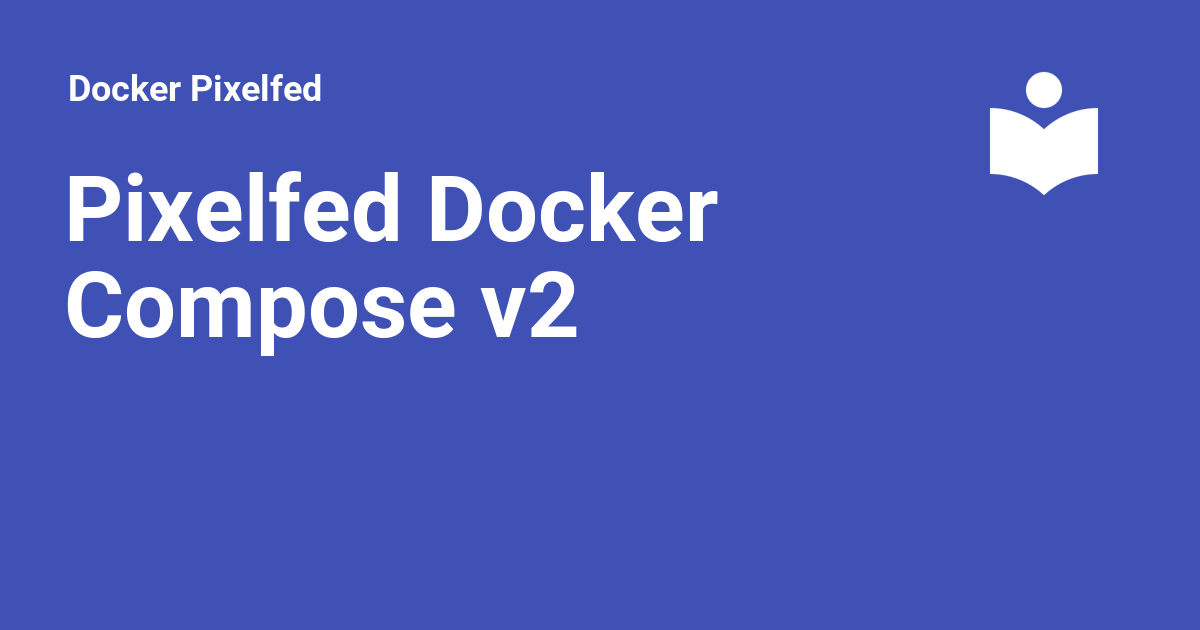
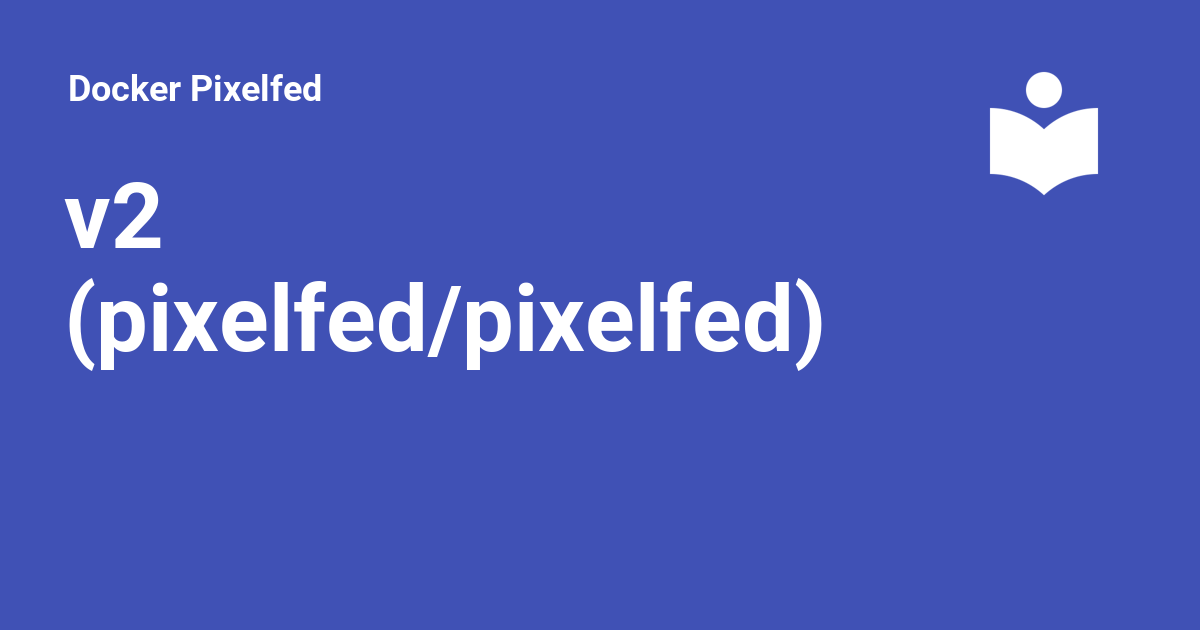
Deployed ea24fba with MkDocs version: 1.6.0

Changed region(s): [[0.0308, 0.4222, 0.7092, 0.6032], [0.0308, 0.2714, 0.6167, 0.3921]]

diff --git a/migrate/v2.0/index.html b/migrate/v2.0/index.html
@@ -22,7 +22,7 @@
     
     
       
-        <title>Pixelfed Docker Compose v2 - Docker Pixelfed</title>
+        <title>v2 (pixelfed/pixelfed) - Docker Pixelfed</title>
       
     
     
@@ -59,7 +59,7 @@
       
         <meta  property="og:type"  content="website" >
       
-        <meta  property="og:title"  content="Pixelfed Docker Compose v2 - Docker Pixelfed" >
+        <meta  property="og:title"  content="v2 (pixelfed/pixelfed) - Docker Pixelfed" >
       
         <meta  property="og:description"  content="None" >
       
@@ -75,7 +75,7 @@
       
         <meta  name="twitter:card"  content="summary_large_image" >
       
-        <meta  name="twitter:title"  content="Pixelfed Docker Compose v2 - Docker Pixelfed" >
+        <meta  name="twitter:title"  content="v2 (pixelfed/pixelfed) - Docker Pixelfed" >
       
         <meta  name="twitter:description"  content="None" >
       
@@ -102,7 +102,7 @@
     <div data-md-component="skip">
       
         
-        <a href="#pixelfed-docker-compose-v2" class="md-skip">
+        <a href="#v2-pixelfedpixelfed" class="md-skip">
           Skip to content
         </a>
       
@@ -138,7 +138,7 @@
         <div class="md-header__topic" data-md-component="header-topic">
           <span class="md-ellipsis">
             
-              Pixelfed Docker Compose v2
+              v2 (pixelfed/pixelfed)
             
           </span>
         </div>
@@ -631,7 +631,7 @@
           
   
   <span class="md-ellipsis">
-    Pixelfed Docker Compose v2
+    v2 (pixelfed/pixelfed)
   </span>
   
 
@@ -642,7 +642,7 @@
         
   
   <span class="md-ellipsis">
-    Pixelfed Docker Compose v2
+    v2 (pixelfed/pixelfed)
   </span>
   
 
@@ -1172,7 +1172,7 @@
         
   
   <span class="md-ellipsis">
-    Docker Compose v3
+    v3 (jippi/docker-pixelfed)
   </span>
   
 
@@ -1735,7 +1735,7 @@
   
 
 
-<h1 id="pixelfed-docker-compose-v2">Pixelfed Docker Compose v2<a class="headerlink" href="#pixelfed-docker-compose-v2" title="Permanent link">&para;</a></h1>
+<h1 id="v2-pixelfedpixelfed">v2 (pixelfed/pixelfed)<a class="headerlink" href="#v2-pixelfedpixelfed" title="Permanent link">&para;</a></h1>
 <div class="admonition abstract">
 <p class="admonition-title">This document assuming you want to upgrade the upstream Docker Compose v2 setup!</p>
 </div>

diff --git a/migrate/v3.0/index.html b/migrate/v3.0/index.html
@@ -20,7 +20,7 @@
     
     
       
-        <title>Docker Compose v3 - Docker Pixelfed</title>
+        <title>v3 (jippi/docker-pixelfed) - Docker Pixelfed</title>
       
     
     
@@ -57,7 +57,7 @@
       
         <meta  property="og:type"  content="website" >
       
-        <meta  property="og:title"  content="Docker Compose v3 - Docker Pixelfed" >
+        <meta  property="og:title"  content="v3 (jippi/docker-pixelfed) - Docker Pixelfed" >
       
         <meta  property="og:description"  content="None" >
       
@@ -73,7 +73,7 @@
       
         <meta  name="twitter:card"  content="summary_large_image" >
       
-        <meta  name="twitter:title"  content="Docker Compose v3 - Docker Pixelfed" >
+        <meta  name="twitter:title"  content="v3 (jippi/docker-pixelfed) - Docker Pixelfed" >
       
         <meta  name="twitter:description"  content="None" >
       
@@ -100,7 +100,7 @@
     <div data-md-component="skip">
       
         
-        <a href="#docker-compose-v3" class="md-skip">
+        <a href="#v3-jippidocker-pixelfed" class="md-skip">
           Skip to content
         </a>
       
@@ -136,7 +136,7 @@
         <div class="md-header__topic" data-md-component="header-topic">
           <span class="md-ellipsis">
             
-              Docker Compose v3
+              v3 (jippi/docker-pixelfed)
             
           </span>
         </div>
@@ -620,7 +620,7 @@
         
   
   <span class="md-ellipsis">
-    Pixelfed Docker Compose v2
+    v2 (pixelfed/pixelfed)
   </span>
   
 
@@ -650,7 +650,7 @@
           
   
   <span class="md-ellipsis">
-    Docker Compose v3
+    v3 (jippi/docker-pixelfed)
   </span>
   
 
@@ -661,7 +661,7 @@
         
   
   <span class="md-ellipsis">
-    Docker Compose v3
+    v3 (jippi/docker-pixelfed)
   </span>
   
 
@@ -905,7 +905,7 @@
   
 
 
-<h1 id="docker-compose-v3">Docker Compose v3<a class="headerlink" href="#docker-compose-v3" title="Permanent link">&para;</a></h1>
+<h1 id="v3-jippidocker-pixelfed">v3 (jippi/docker-pixelfed)<a class="headerlink" href="#v3-jippidocker-pixelfed" title="Permanent link">&para;</a></h1>
 <div class="admonition warning">
 <p class="admonition-title">This doc is WIP and may include wrong or incomplete information</p>
 </div>

diff --git a/404.html b/404.html
@@ -585,7 +585,7 @@
         
   
   <span class="md-ellipsis">
-    Pixelfed Docker Compose v2
+    v2 (pixelfed/pixelfed)
   </span>
   
 
@@ -606,7 +606,7 @@
         
   
   <span class="md-ellipsis">
-    Docker Compose v3
+    v3 (jippi/docker-pixelfed)
   </span>
   
 

diff --git a/conventions/index.html b/conventions/index.html
@@ -746,7 +746,7 @@
         
   
   <span class="md-ellipsis">
-    Pixelfed Docker Compose v2
+    v2 (pixelfed/pixelfed)
   </span>
   
 
@@ -767,7 +767,7 @@
         
   
   <span class="md-ellipsis">
-    Docker Compose v3
+    v3 (jippi/docker-pixelfed)
   </span>
   
 

diff --git a/customize/build-settings/index.html b/customize/build-settings/index.html
@@ -788,7 +788,7 @@
         
   
   <span class="md-ellipsis">
-    Pixelfed Docker Compose v2
+    v2 (pixelfed/pixelfed)
   </span>
   
 
@@ -809,7 +809,7 @@
         
   
   <span class="md-ellipsis">
-    Docker Compose v3
+    v3 (jippi/docker-pixelfed)
   </span>
   
 

diff --git a/customize/entrypoint/index.html b/customize/entrypoint/index.html
@@ -755,7 +755,7 @@
         
   
   <span class="md-ellipsis">
-    Pixelfed Docker Compose v2
+    v2 (pixelfed/pixelfed)
   </span>
   
 
@@ -776,7 +776,7 @@
         
   
   <span class="md-ellipsis">
-    Docker Compose v3
+    v3 (jippi/docker-pixelfed)
   </span>
   
 

diff --git a/customize/faq/index.html b/customize/faq/index.html
@@ -689,7 +689,7 @@
         
   
   <span class="md-ellipsis">
-    Pixelfed Docker Compose v2
+    v2 (pixelfed/pixelfed)
   </span>
   
 
@@ -710,7 +710,7 @@
         
   
   <span class="md-ellipsis">
-    Docker Compose v3
+    v3 (jippi/docker-pixelfed)
   </span>
   
 

diff --git a/customize/runtimes/index.html b/customize/runtimes/index.html
@@ -728,7 +728,7 @@
         
   
   <span class="md-ellipsis">
-    Pixelfed Docker Compose v2
+    v2 (pixelfed/pixelfed)
   </span>
   
 
@@ -749,7 +749,7 @@
         
   
   <span class="md-ellipsis">
-    Docker Compose v3
+    v3 (jippi/docker-pixelfed)
   </span>
   
 

diff --git a/customize/templating/index.html b/customize/templating/index.html
@@ -689,7 +689,7 @@
         
   
   <span class="md-ellipsis">
-    Pixelfed Docker Compose v2
+    v2 (pixelfed/pixelfed)
   </span>
   
 
@@ -710,7 +710,7 @@
         
   
   <span class="md-ellipsis">
-    Docker Compose v3
+    v3 (jippi/docker-pixelfed)
   </span>
   
 

diff --git a/index.html b/index.html
@@ -630,7 +630,7 @@
         
   
   <span class="md-ellipsis">
-    Pixelfed Docker Compose v2
+    v2 (pixelfed/pixelfed)
   </span>
   
 
@@ -651,7 +651,7 @@
         
   
   <span class="md-ellipsis">
-    Docker Compose v3
+    v3 (jippi/docker-pixelfed)
   </span>
   
 

diff --git a/installation/index.html b/installation/index.html
@@ -755,7 +755,7 @@
         
   
   <span class="md-ellipsis">
-    Pixelfed Docker Compose v2
+    v2 (pixelfed/pixelfed)
   </span>
   
 
@@ -776,7 +776,7 @@
         
   
   <span class="md-ellipsis">
-    Docker Compose v3
+    v3 (jippi/docker-pixelfed)
   </span>
   
 

diff --git a/installation/prerequisites/index.html b/installation/prerequisites/index.html
@@ -731,7 +731,7 @@
         
   
   <span class="md-ellipsis">
-    Pixelfed Docker Compose v2
+    v2 (pixelfed/pixelfed)
   </span>
   
 
@@ -752,7 +752,7 @@
         
   
   <span class="md-ellipsis">
-    Docker Compose v3
+    v3 (jippi/docker-pixelfed)
   </span>
   
 
